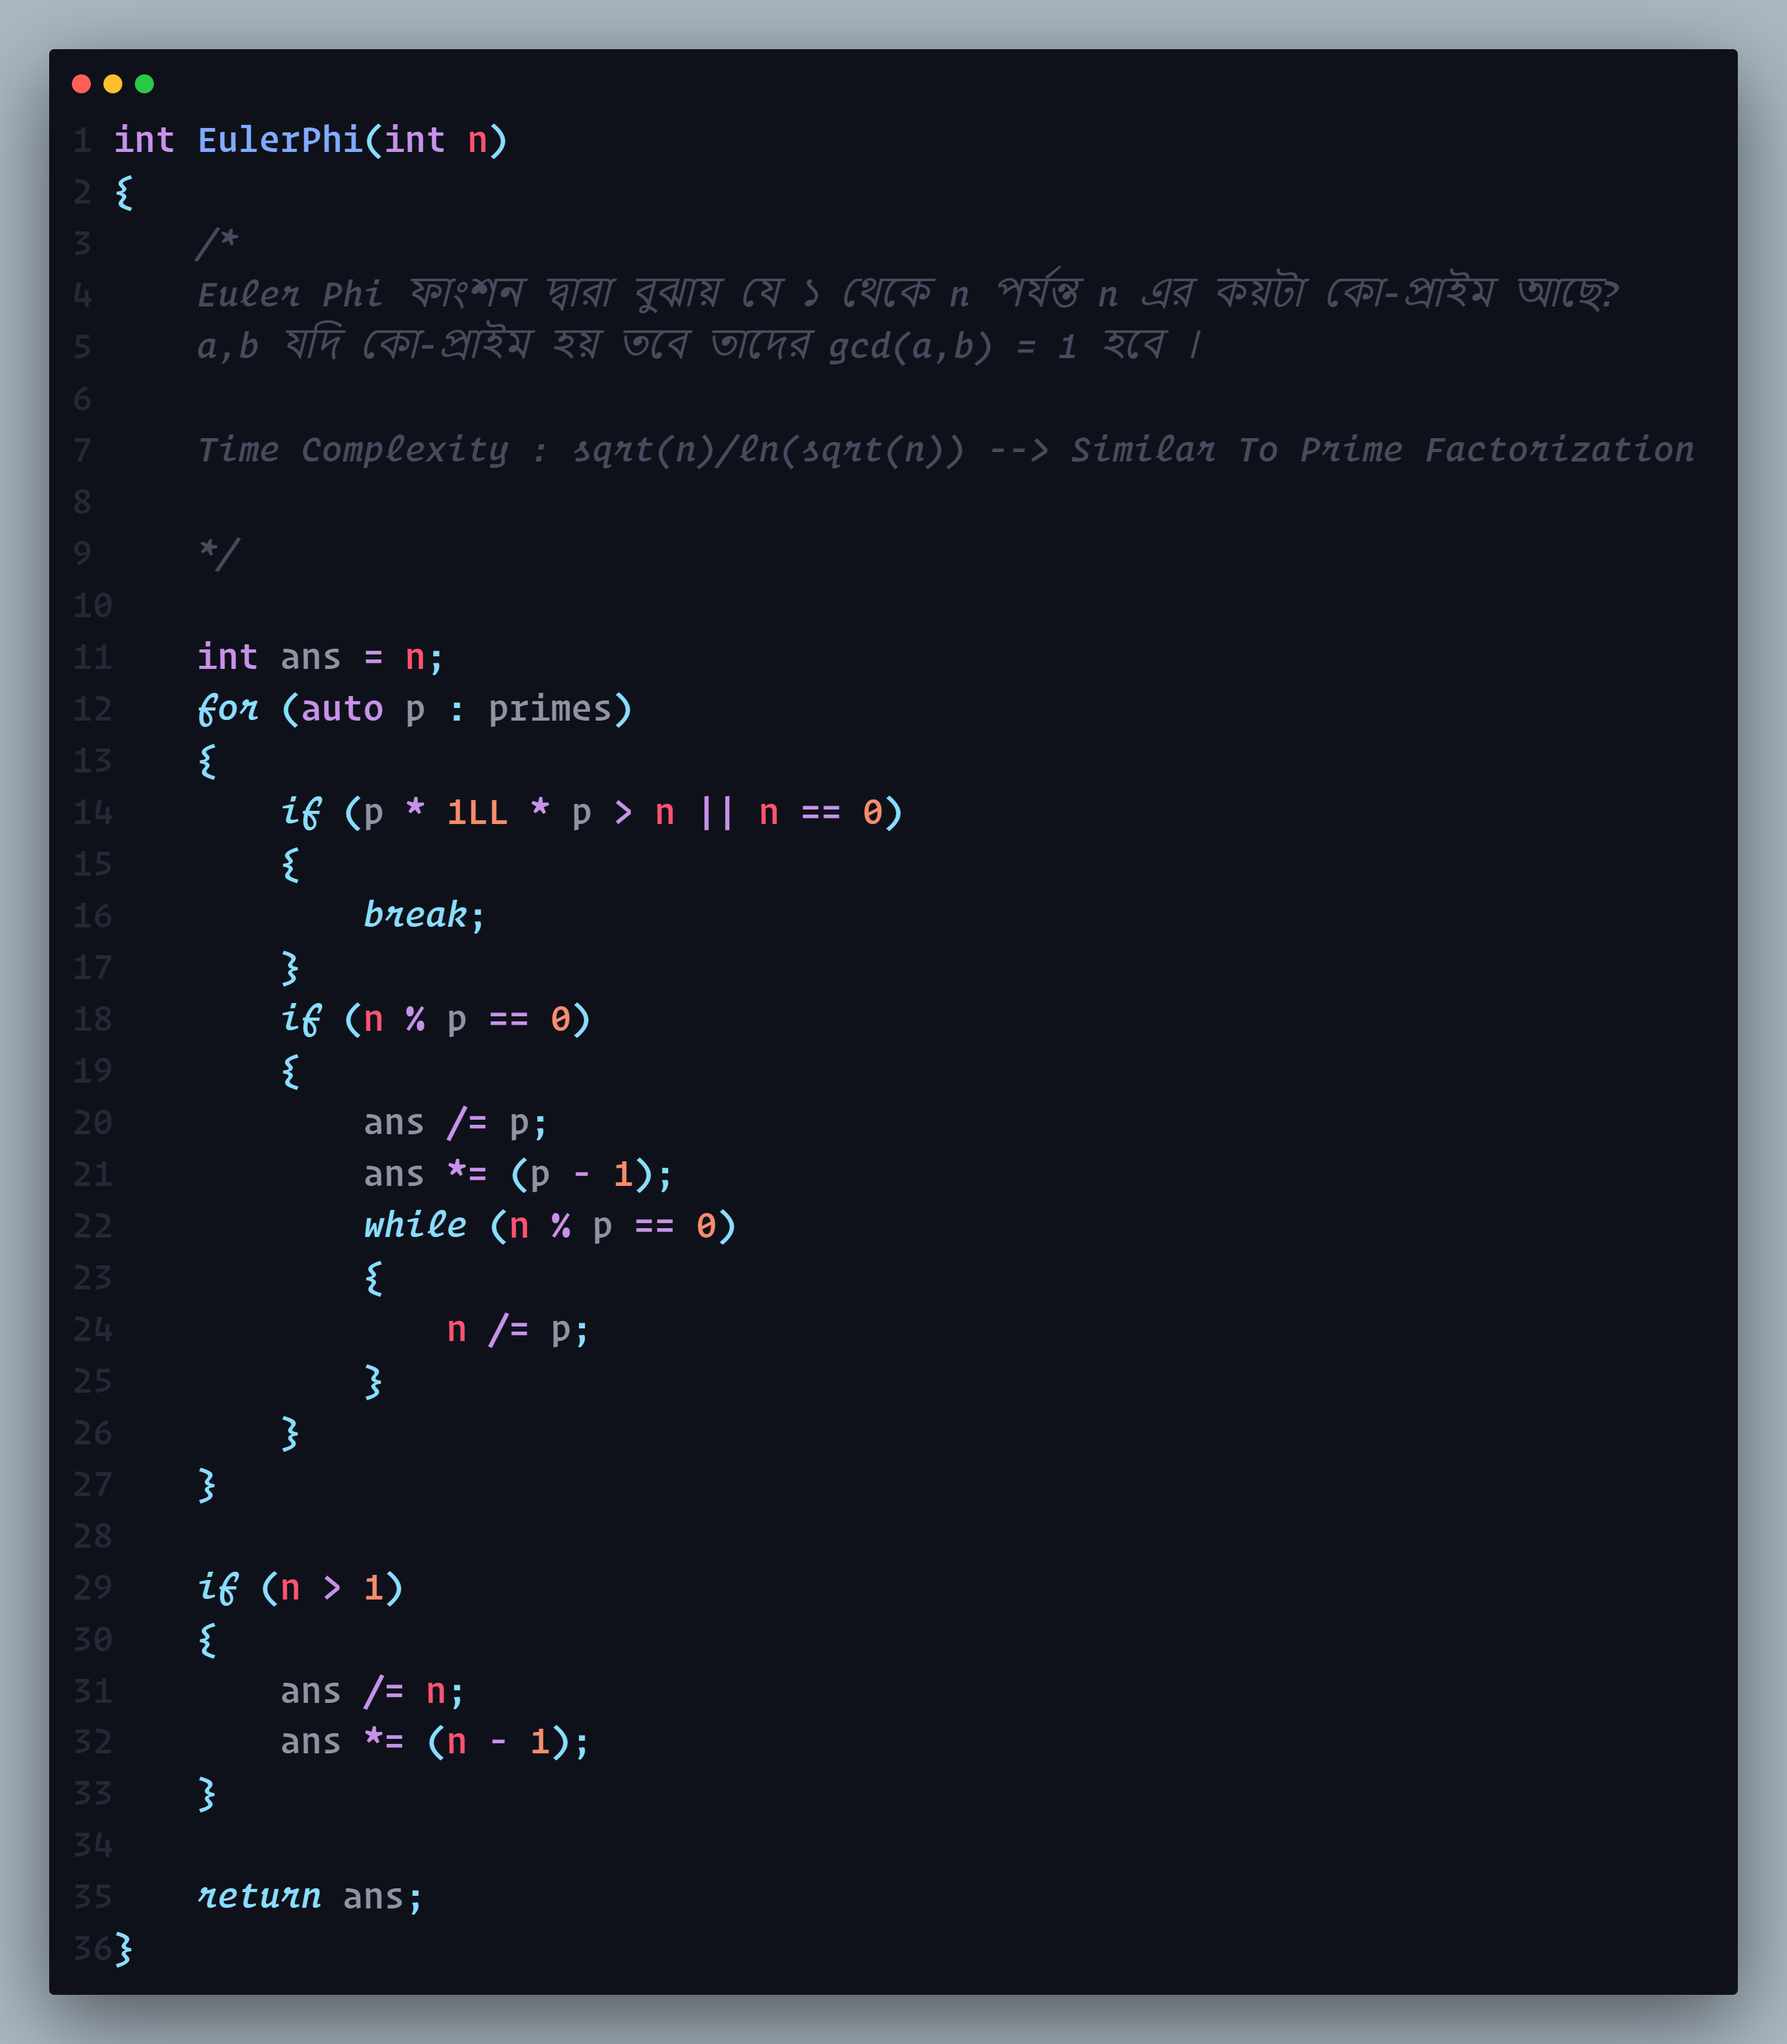
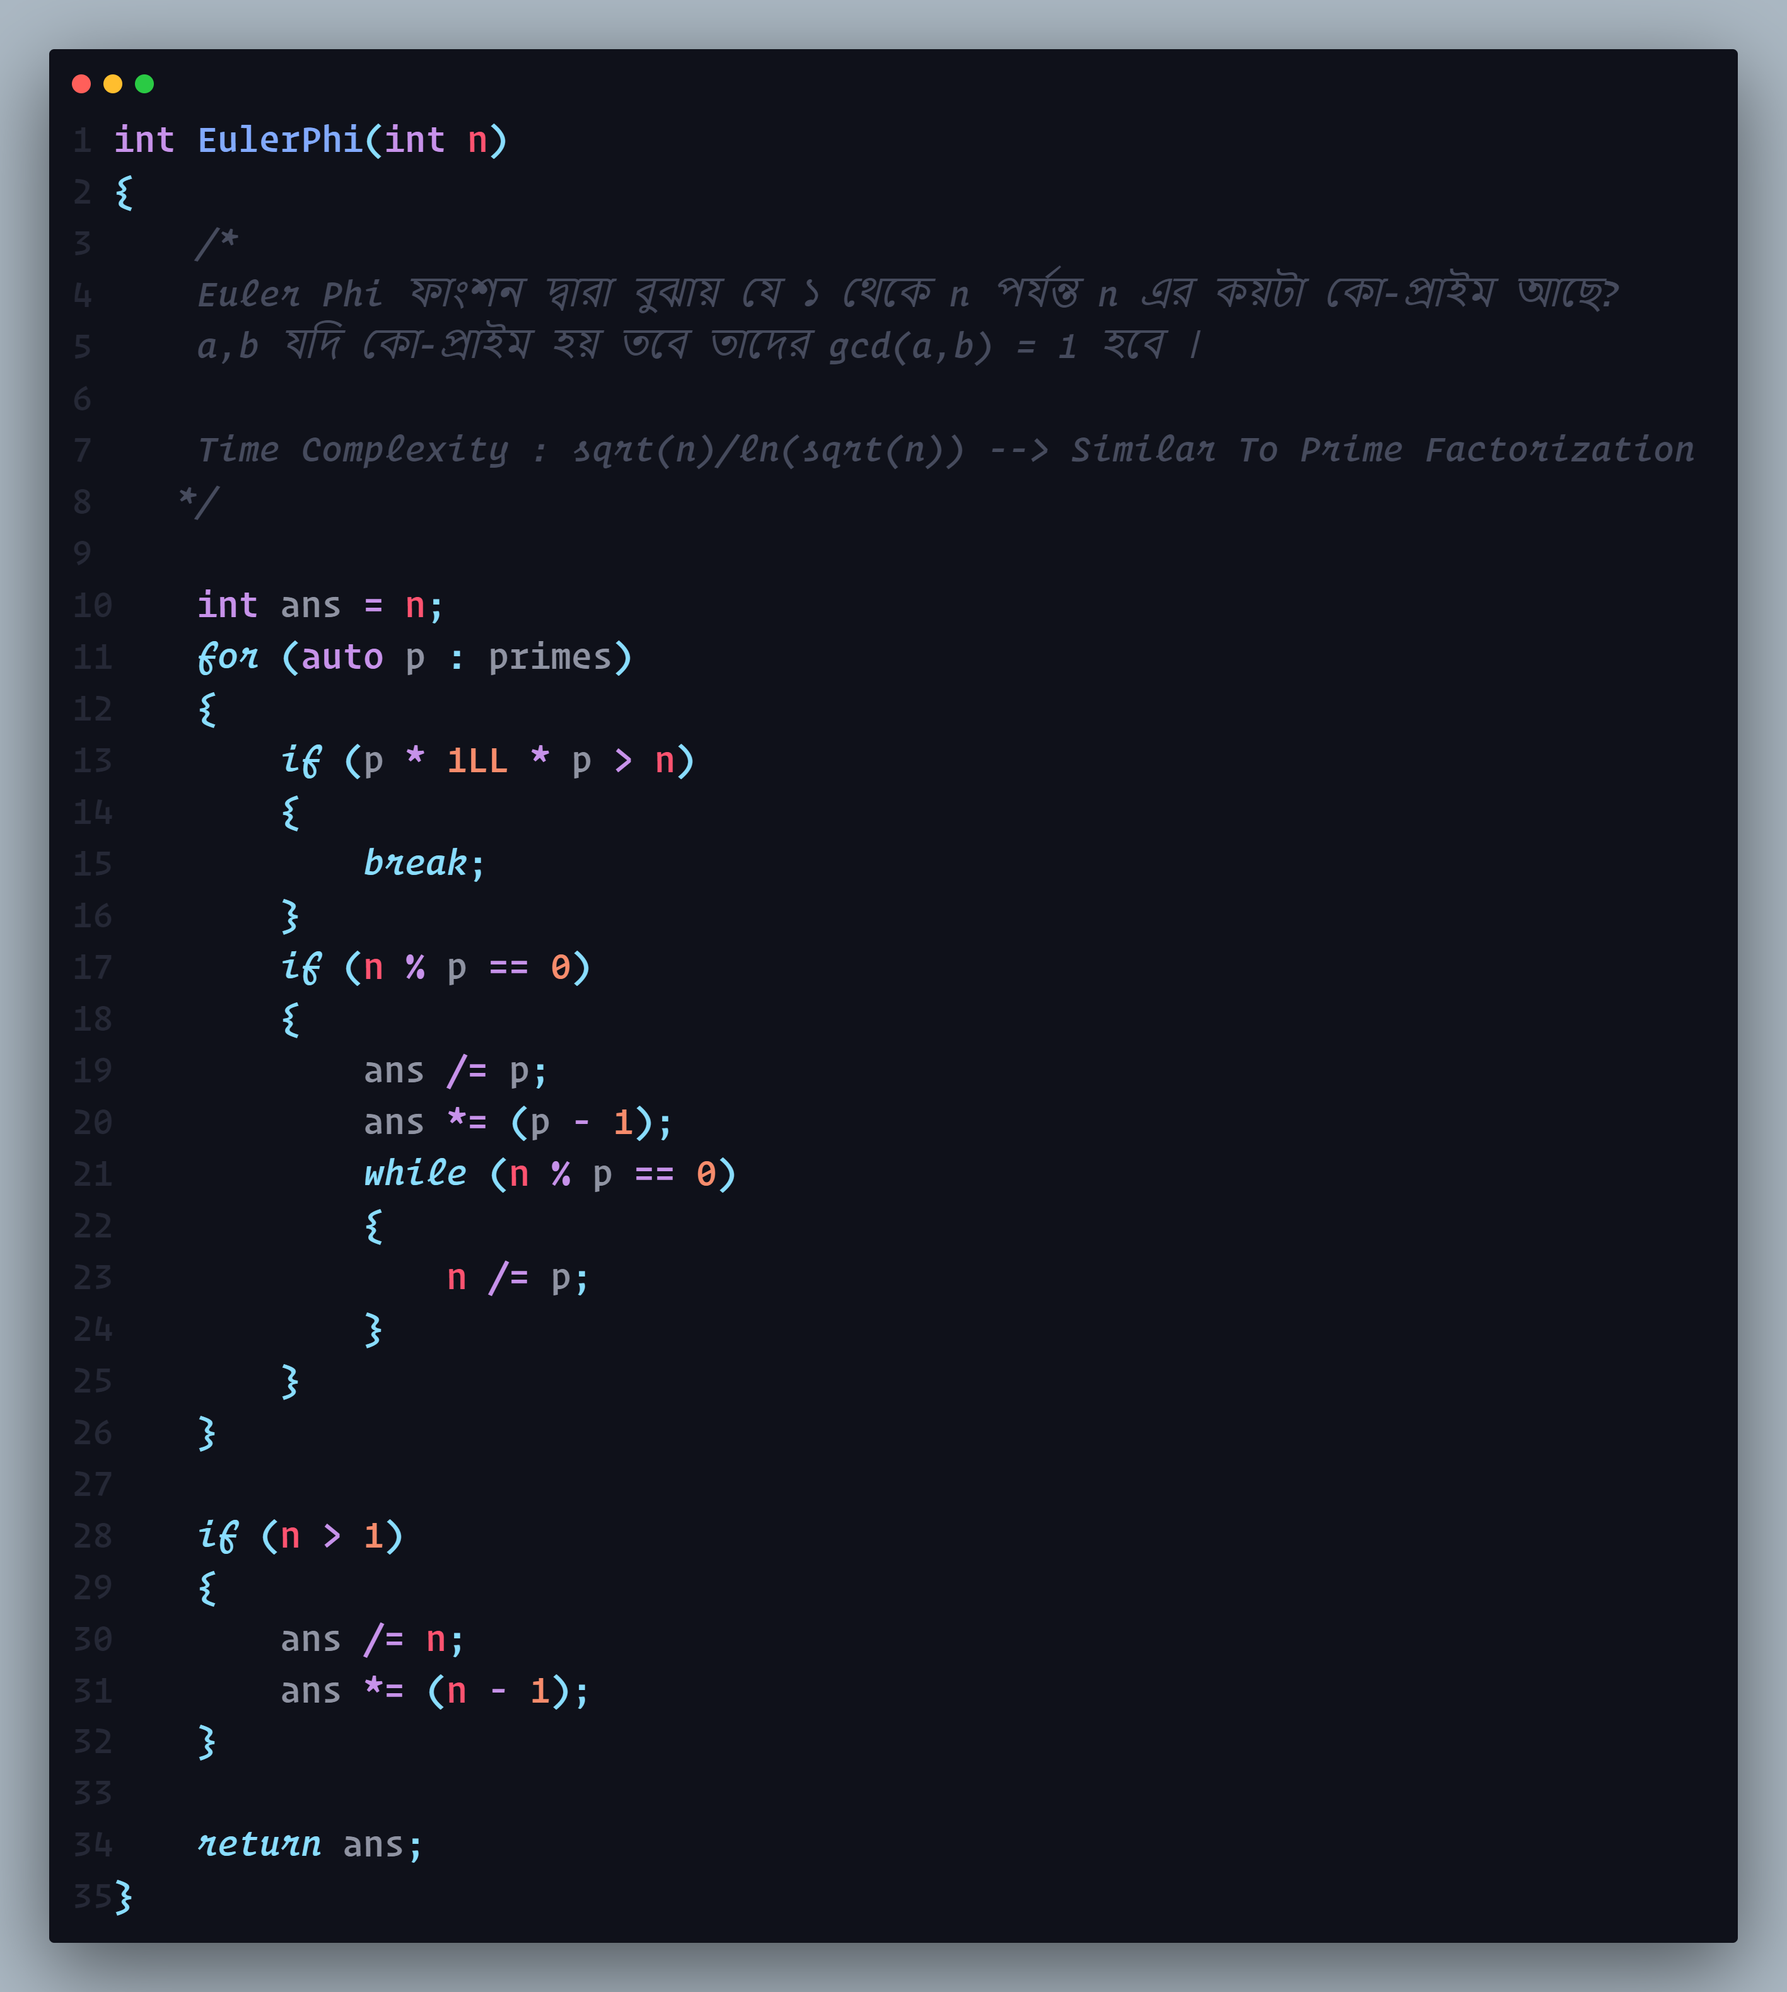
Euler Totient and Phi Function

diff --git a/CP/L1/Euler Totient or Phi Function/Theory/euler_phi.cpp b/CP/L1/Euler Totient or Phi Function/Theory/euler_phi.cpp
@@ -48,7 +48,7 @@ int EulerPhi(int n)
     int ans = n;
     for (auto p : primes)
     {
-        if (p * 1LL * p > n || n == 0)
+        if (p * 1LL * p > n)
         {
             break;
         }
